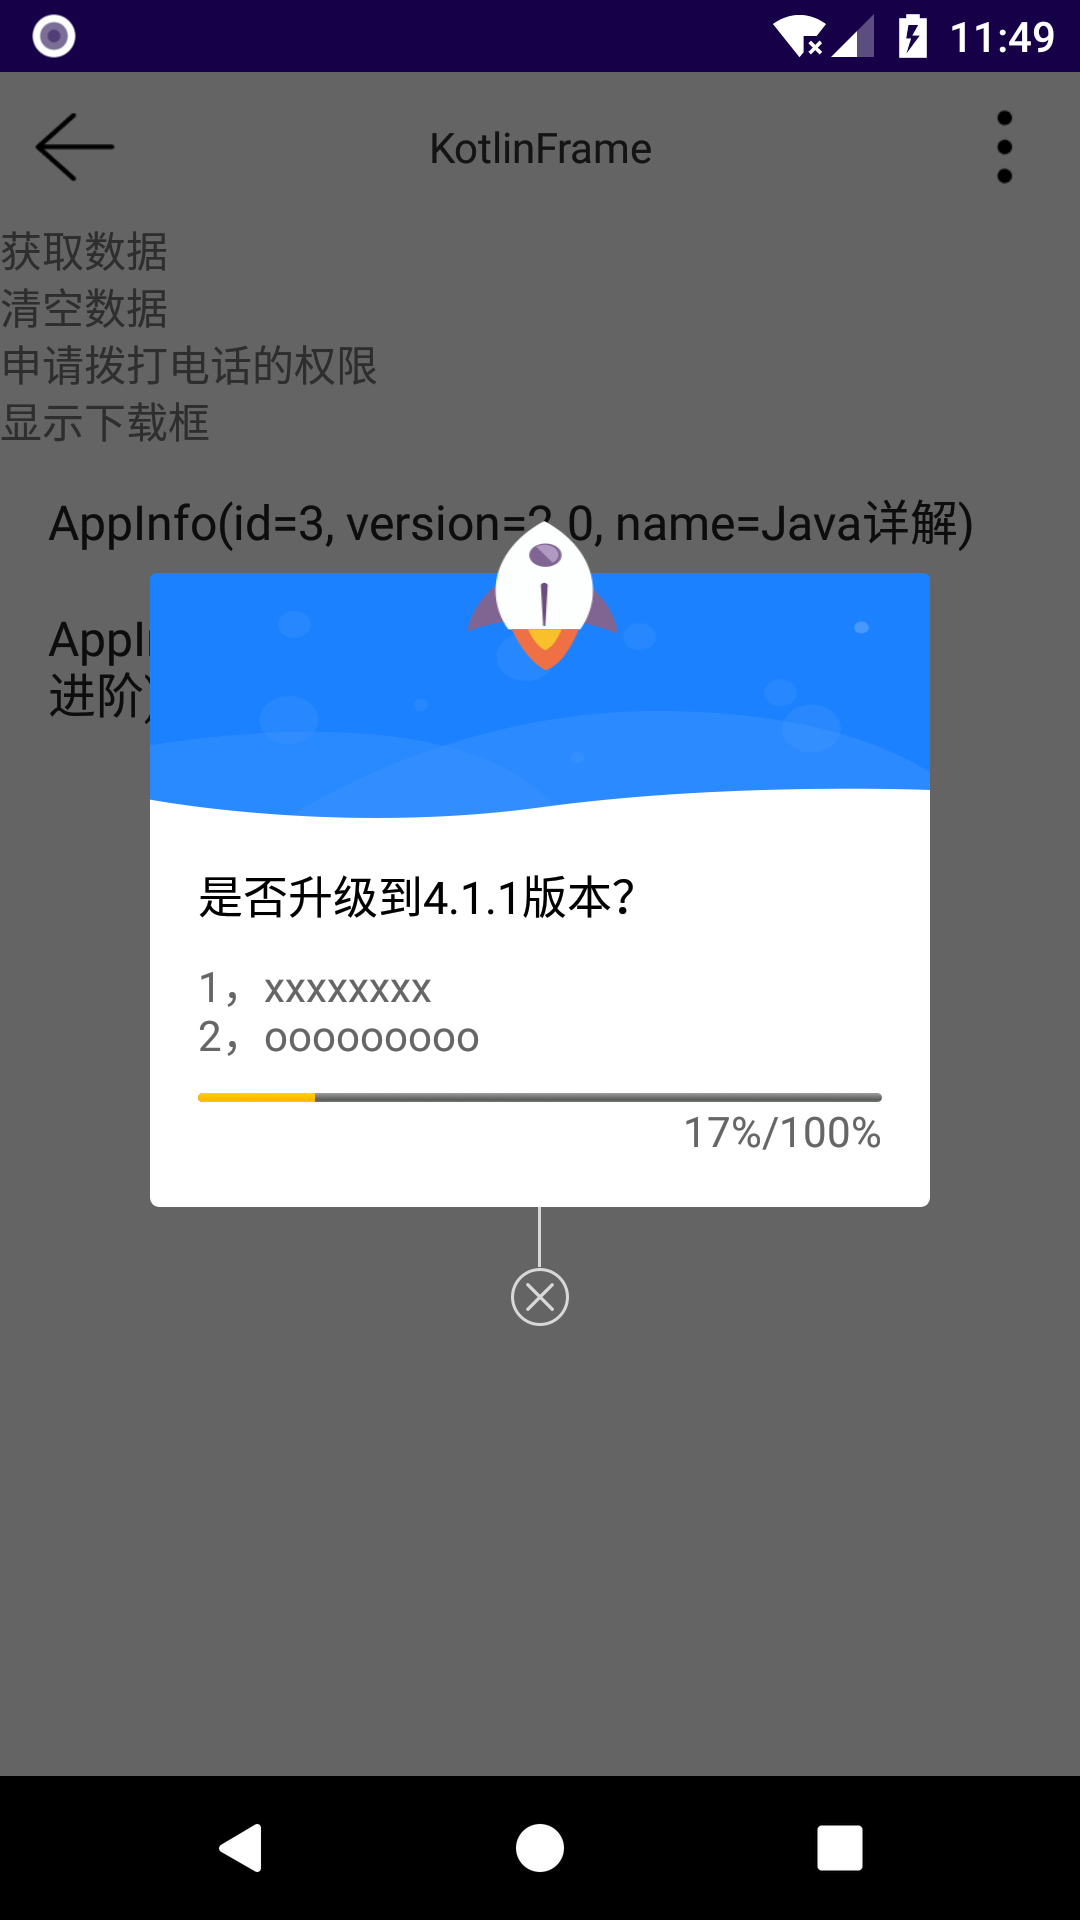
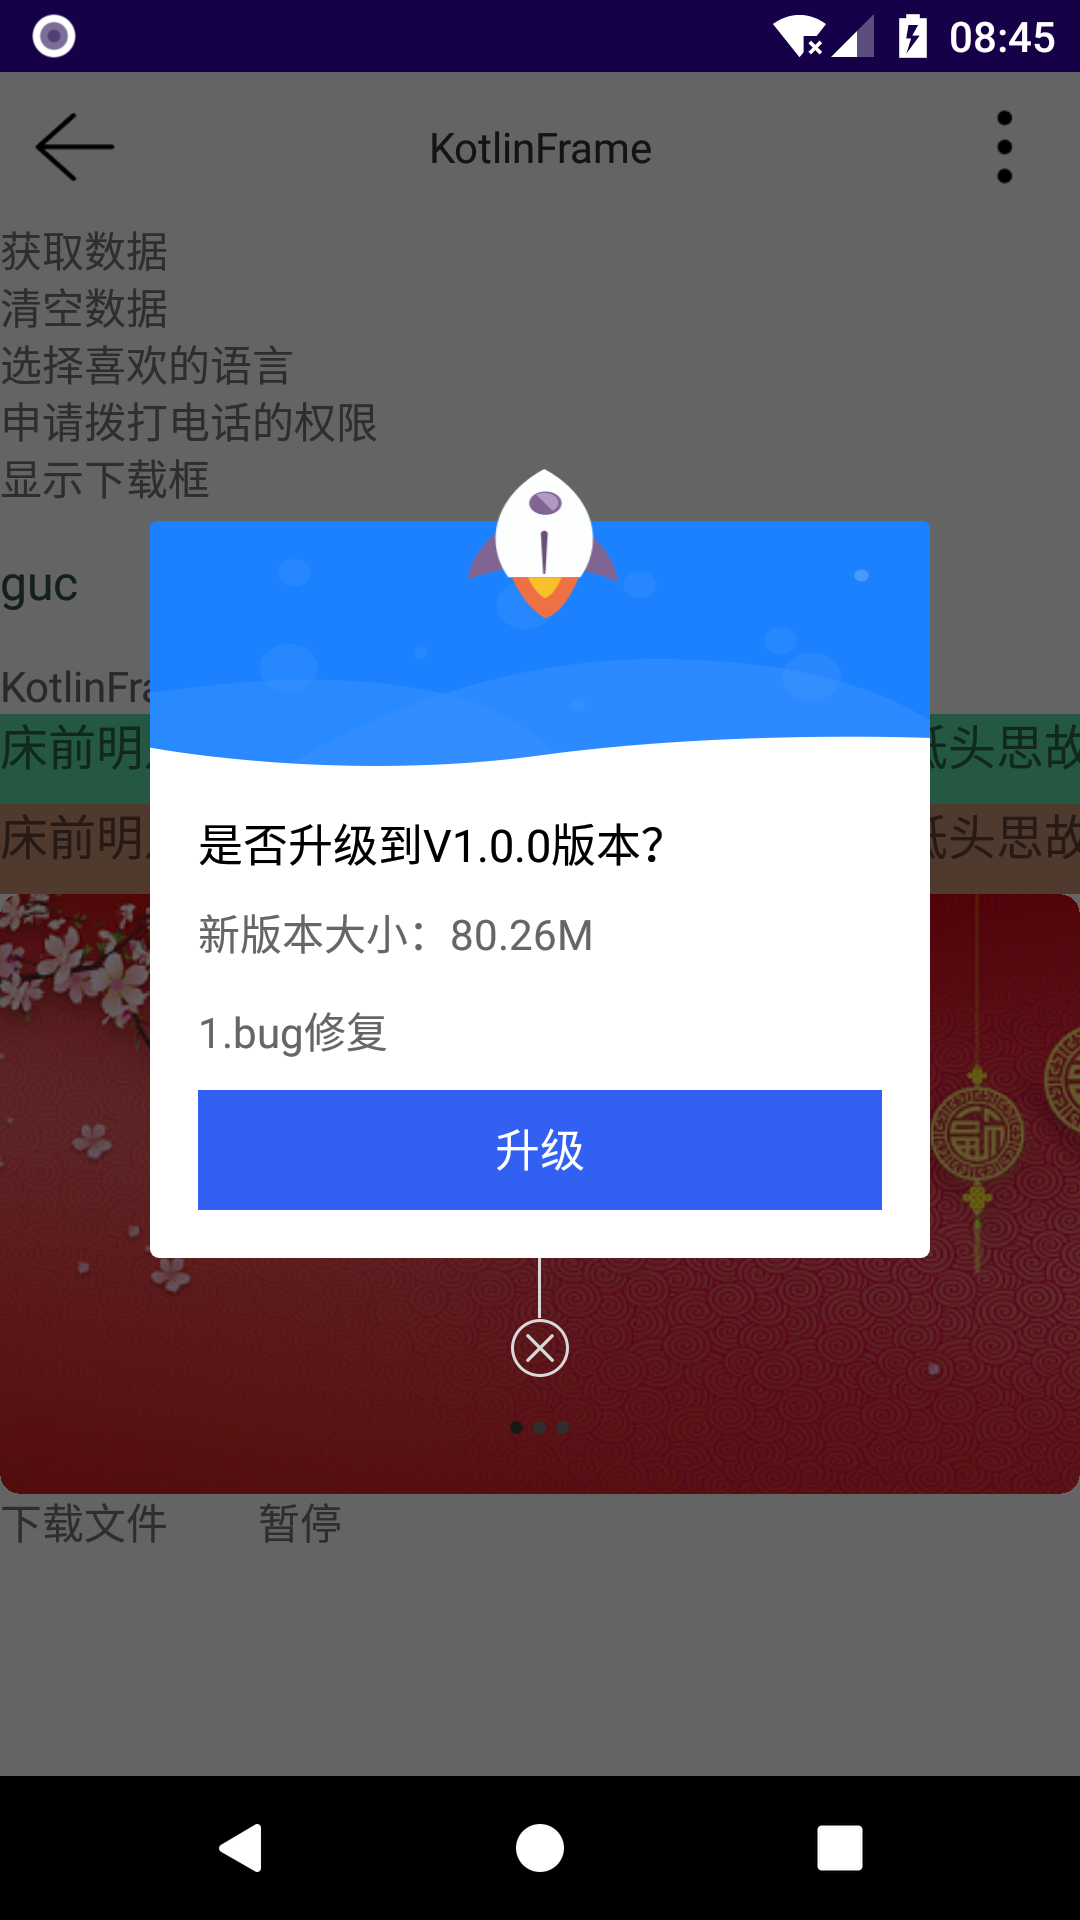
update readme

diff --git a/README.md b/README.md
@@ -35,13 +35,21 @@ val http = SystemManager.getSystem(SystemHttp::class.java)
 * DialogSelect  单选/多选框
 * DialogUpdate  升级框，带下载功能
 ```
-  // 仅需URL即可下载
-  val dialogUpdate = DialogUpdate.getInstanceWithArguments {
-       putParcelable(DialogUpdate.DATA,BeanVersion().apply { fileUrl = "https://down.qq.com/qqweb/QQ_1/android_apk/Android_8.3.6.4590_537064458.apk" })
-  }
-  dialogUpdate.show(supportFragmentManager,"dialog")
+   val dialogUpdate = DialogUpdate.getInstanceWithArguments {
+        putParcelable(
+             DialogUpdate.DATA,
+             BeanVersion().apply {
+                  fileUrl =
+                       "https://down.qq.com/qqweb/QQ_1/android_apk/Android_8.3.6.4590_537064458.apk"
+                  fileSize = "84161244"
+                  updateJournal = "1.bug修复"
+                  newVersion = "V1.0.0"
+           })
+       }
+   dialogUpdate.show(supportFragmentManager, "dialog")
 ```
  <img src="https://github.com/icookingcode/KotlinFrame/blob/master/snapshoot/Screenshot_1591588183.png"  height="640" width="360">
+ <img src="https://github.com/icookingcode/KotlinFrame/blob/master/snapshoot/Screenshot_1591922802.png"  height="640" width="360">
 
 * LooperTextView  滚动展示的TextView
 * NoScrollViewPager  禁止滑动的ViewPager
